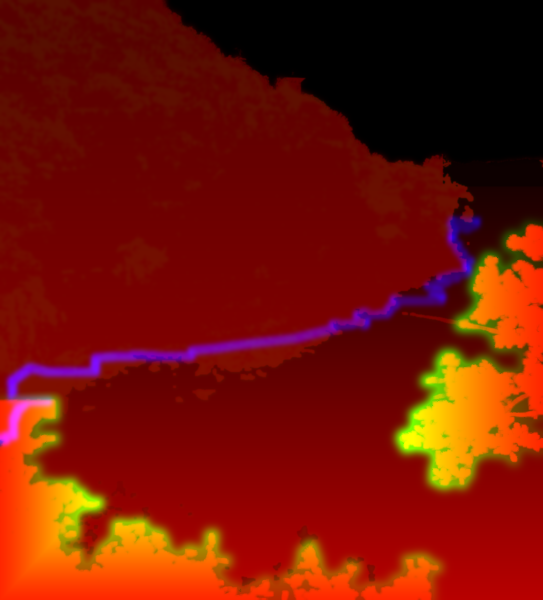
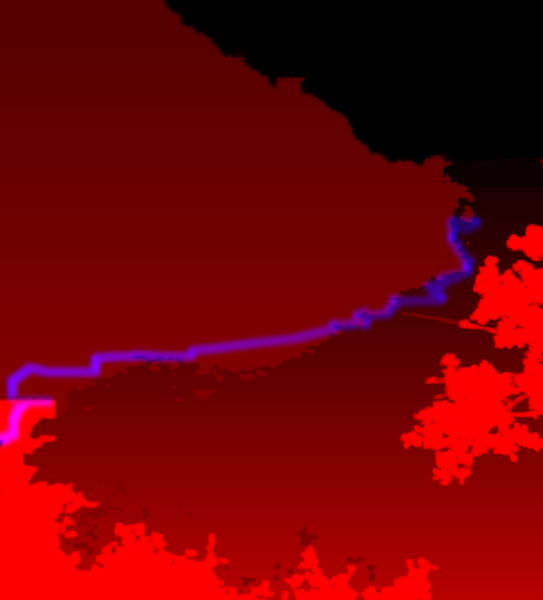
Commenti sull'anteprima: foto a tutto schermo, montagne e tramonto, cielo, barca di notte
- Niente più bande ai lati: la foto riempie sempre lo schermo, tagliata
  attorno al suo punto focale (foto orizzontale: 0,55 / 0,62, così restano
  le ville e il basso fondale). Tolti riempimento laterale e sfumature.
- Foto orizzontale, cielo: il pezzo di cielo tra gli alberi in cima alla
  collina ora cambia con l'ora come il resto; le montagne lontane nella
  foschia non sono più cielo (crinale tracciato a mano).
- Le montagne al tramonto e di notte prendono il colore del cielo, un po'
  più scure (canale G di maps.png della foto orizzontale; quella verticale
  non ne ha).
- Il sole tramonta a destra del pino, dietro le montagne: il disco sparisce
  dietro il crinale e la sua scia sull'acqua si spegne quando il disco è
  coperto (sunInSky legge la mappa del cielo); scia del sole e della luna
  meno accecanti sulla foto orizzontale.
- La barca di notte ha la luce di fonda bianca e una luce calda a bordo; dopo
  le 23 rientra e torna al mattino (7:45). Il nuotatore della foto verticale
  nuota solo di giorno.

Claude-Session: https://claude.ai/code/session_016rfVP7zDddbD6eFjRHCoFi

Changed region(s): [[0.0, 0.63, 0.825, 1.0], [0.7072, 0.36, 1.0, 0.84]]

diff --git a/scene.html b/scene.html
@@ -62,6 +62,7 @@ const SCENES = {
     swell: [-0.9536, 0.3011],
     // what floats (boxes in photo px, from tools/sea.py): swimmer, boat, buoy; and the boom's two ends
     objects: [[220, 967, 268, 996], [1016, 437, 1044, 451], [933, 484, 940, 490]],
+    kinds: ['swimmer', 'boat', 'buoy'],
     boom: [798, 623, 1066, 683],
     foam: 1,
     // the far coast's lights: along this row, between these columns
@@ -88,13 +89,15 @@ const SCENES = {
   wide: {
     w: 1920, h: 1331,
     horizonY: 503/1331,                 // where the haze turns into sea, on the right
-    focal: { landscape: [0.55, 0.5], portrait: [0.55, 0.5] },
-    sunSet: [0.995, 0.36], sunRise: [0.30, 0.0], sunArc: 0.12,   // it sets over the open sea, right of the pine
+    focal: { landscape: [0.55, 0.62], portrait: [0.55, 0.5] },   // wide screens keep the villas and the shallows
+    sunSet: [0.97, 0.36], sunRise: [0.30, 0.0], sunArc: 0.06,    // right of the pine, down behind the far mountains
     moon: [0.84, 0.13],
     // tools/wide.py: a level horizon at row 503, a ~60 degree lens, 20 m above the water
     camera: { f: 1663, cx: 960, cy: 665.5, pitch: 0.097406, height: 20 },
     swell: [-0.7071, -0.7071],
-    objects: [[1739, 932, 1838, 1012], NONE, NONE],
+    objects: [[1742, 936, 1842, 1014], NONE, NONE],
+    kinds: ['boat', 'none', 'none'],
+    glare: 0.45,                        // seen lower and closer to the water: the sun's path would blind
     boom: NONE,
     foam: 0.12,
     coast: { y: 499, x0: 1665, x1: 1915, up: 60 },
@@ -115,9 +118,20 @@ const SCENES = {
     ]
   }
 };
+// the boat goes back to harbour late in the evening and is out again in the morning; the swimmer
+// only swims by day
+function boatOn(hour){
+  const late = hour < 12 ? hour + 24 : hour;
+  return 1 - smooth(23.0, 23.3, late)*(1 - smooth(31.5, 31.8, late));
+}
 const PICK = QS.get('photo') === 'wide' || QS.get('photo') === 'tall' ? QS.get('photo') : (innerWidth > innerHeight ? 'wide' : 'tall');
 const SCENE = SCENES[PICK];
 const LIGHT_PX = SCENE.lights.slice();
+SCENE.kinds.forEach((k, i) => {
+  if (k !== 'boat') return;
+  const [x0, y0, x1, y1] = SCENE.objects[i], s = (x1 - x0)/100;
+  LIGHT_PX.push([x0 + 0.5*(x1 - x0), y0 + 4*s, 2.4*s, 3, 'boat'], [x0 + 0.42*(x1 - x0), y0 + 0.45*(y1 - y0), 2.8*s, 1, 'boat']);
+});
 // a photo pixel -> the direction the camera looks along it (x right, y away, z up)
 function camRay(px, py){
   const c = SCENE.camera, u = (px - c.cx)/c.f, v = (py - c.cy)/c.f, cp = Math.cos(c.pitch), sp = Math.sin(c.pitch);
@@ -166,6 +180,7 @@ uniform vec3 uSunDir, uSunSpec, uMoonDir, uMoonSpec;
 uniform float uWind;                // m/s
 uniform float uFoam;                // how much the swell breaks on this photo's rocks (a close shore: less)
 uniform vec4 uObjBox[3];            // swimmer, boat, buoy: photo px boxes
+uniform float uObjOn[3];            // each one there (1) or gone (0), by the hour
 uniform vec4 uBoom;                 // the floating boom, from end to end (photo px)
 uniform vec3 uWB, uZenith, uHorizon, uGlow, uSunCol, uLift;
 uniform vec2 uSunPos, uMoonPos, uMoonPhase;
@@ -316,24 +331,6 @@ vec3 water(vec2 q, vec2 ip, vec3 sea, float expo, float aspect){
   return max(col, 0.0);
 }
 
-// What goes where the screen is wider than the photo: the photo's own colours, mirrored out
-// from its edge, blurred more the further out, and darkened. Nothing there moves.
-vec3 sideFill(vec2 q){
-  float dx = q.x < 0.0 ? -q.x : max(q.x - 1.0, 0.0);              // photo widths outside the photo
-  float mx = 1.0 - abs(1.0 - mod(q.x, 2.0)), my = clamp(q.y, 0.0, 1.0);
-  // the photo's own colours, mirrored out from its edge and heavily blurred: a ring of samples
-  // on its coarsest levels, turned per pixel so no grid shows; only the light and the colours
-  // remain, no shapes
-  float r = 0.06 + 0.08*min(dx, 1.0), a0 = 6.2832*fract(52.9829189*fract(dot(gl_FragCoord.xy, vec2(0.06711056, 0.00583715))));
-  vec3 c = textureLod(uPlate, vec2(mx, my), 7.0).rgb;
-  for (int i = 0; i < 6; i++){
-    float a = a0 + float(i)*1.0472;
-    vec2 t = vec2(mx + cos(a)*r, my + sin(a)*r*1.1);
-    t.x = 1.0 - abs(1.0 - mod(t.x, 2.0));
-    c += textureLod(uPlate, vec2(t.x, clamp(t.y, 0.0, 1.0)), 7.0).rgb;
-  }
-  return grade(c/7.0)*(0.97 - 0.5*smoothstep(0.0, 0.35, dx))*(1.0 - 0.6*uNight);
-}
 void finish(vec3 col, vec2 s){
   // gentle highlight shoulder: the photo stays itself at noon
   col = max(col, 0.0);
@@ -349,7 +346,6 @@ void main(){
   // the camera does not move: a screen pixel is a photo pixel, nothing else
   vec2 s = vec2(gl_FragCoord.x, uRes.y - gl_FragCoord.y)/uRes;
   vec2 q = uOff + s*uVis;
-  if (q.x < 0.0 || q.x > 1.0){ finish(sideFill(q), s); return; }
   float aspect = uImg.x/uImg.y;
   vec4 m = texture(uMaps, q);
   vec2 ip = q*uImg;
@@ -372,14 +368,17 @@ void main(){
     land *= 1.0 - 0.32*wet;
   }
   vec3 col = grade(land);
+  // the far mountains in the haze: at dusk and at night they take the sky's colour, a shade darker
+  if (m.g > 0.004) col = mix(col, drawnSky(q, aspect)*0.72, min(1.0, m.g*uSkyMix*0.95));
 
   // ---- the sea, then what floats on it (rising and falling with the swell); the leaves come after, drawn on top
   if (sea.r > 0.004){
     col = mix(col, water(q, ip, sea, m.b, aspect), sea.r);
-    vec2 qo = q;
+    vec2 qo = q; float on = 1.0;
     for (int i = 0; i < 3; i++){
       vec4 bx = uObjBox[i];
       if (ip.x > bx.x - 4.0 && ip.x < bx.z + 4.0 && ip.y > bx.y - 16.0 && ip.y < bx.w + 16.0){
+        on = uObjOn[i];
         vec3 Pa = seaPoint(vec2(0.5*(bx.x + bx.z), bx.w));
         qo.y += swellH(Pa.xy, uSeaT)*0.9*uCam.x/Pa.z/uImg.y;
       }
@@ -392,7 +391,7 @@ void main(){
       qo.y += swellH(Pb.xy, uSeaT)*0.9*uCam.x/Pb.z/uImg.y;
     }
     vec4 ob = texture(uObjects, qo);
-    col = mix(col, grade(ob.rgb), ob.a);
+    col = mix(col, grade(ob.rgb), ob.a*on);
   }
 
   // ---- sky, only where there is sky: the photo's own by day, a drawn one with sun, moon and stars
@@ -442,10 +441,6 @@ void main(){
   // ---- lights at night: windows, lamps, the far coast, from the light map drawn in JS
   if (uLightsK > 0.001) col += texture(uLights, q).rgb*${LIGHT_SCALE.toFixed(2)}*uLightsK;
 
-  // into the side fill over the photo's last 70 px, on the sides that have one
-  float fe = 70.0/uImg.x;
-  float ef = (uOff.x < -1e-4 ? smoothstep(0.0, fe, q.x) : 1.0)*(uOff.x + uVis.x > 1.0001 ? smoothstep(0.0, fe, 1.0 - q.x) : 1.0);
-  if (ef < 1.0) col = mix(sideFill(q), max(col, 0.0), ef);
   finish(col, s);
 }`;
 
@@ -642,8 +637,6 @@ void main(){
     c = mix(c, vec3(dot(c, LUM))*1.35 + c*0.15, 0.4*smoothstep(-0.3, -1.0, vFlip));
   }
   float a = smoothstep(vSoft, -vSoft, d);
-  // like the photo, into the side fill at its edges
-  a *= (uOff.x < -1e-4 ? smoothstep(0.0, 70.0, vP.x) : 1.0)*(uOff.x + uVis.x > 1.0001 ? smoothstep(0.0, 70.0, uImg.x - vP.x) : 1.0);
   if (a < 0.003) discard;
   vec3 col = grade(c);
   col = mix(col, 1.0 - 0.2*exp(-(col - 0.8)/0.2), step(0.8, col));
@@ -842,16 +835,16 @@ mo.addEventListener('input', () => {
 mo.value = Math.round(state.motion*100);
 
 /* ---------- night lights: drawn once per change into a texture, not computed per pixel ---------- */
-const LIGHT_COL = [[1.0, 0.72, 0.42], [1.0, 0.56, 0.22], [1.0, 0.78, 0.55]];
+const LIGHT_COL = [[1.0, 0.72, 0.42], [1.0, 0.56, 0.22], [1.0, 0.78, 0.55], [1.0, 0.94, 0.84]];   // ... the boat's anchor light
 const lights = LIGHT_PX.map((l, i) => {
   let s = 977 + i*7919; const r = () => { s = (s*16807) % 2147483647; return s/2147483647; };
   r();
   const kind = l[3];
-  return { x: l[0], y: l[1], rad: l[2], kind,
-           onEl: kind === 1 ? -1.0 - r()*1.5 : -0.8 - r()*6.5,
+  return { x: l[0], y: l[1], rad: l[2], kind, boat: l[4] === 'boat',
+           onEl: kind >= 1 ? -1.0 - r()*1.5 : -0.8 - r()*6.5,
            off: kind === 0 && r() > 0.45 ? 22.8 + r()*3.8 : 99,
            col: LIGHT_COL[kind].map(c => c*(0.9 + 0.2*r())),
-           gain: kind === 2 ? 0.9 : kind === 1 ? 1.3 : 1.0, on: 0 };
+           gain: kind === 2 ? 0.9 : kind === 1 ? 1.3 : kind === 3 ? 1.6 : 1.0, on: 0 };
 });
 // each light's glow, once: a soft window (taller than wide, light spilling on the wall) or a lamp
 for (const l of lights){
@@ -886,7 +879,7 @@ function updateLights(el, hour, now, eager){
   const late = hour < 12 ? hour + 24 : hour;
   let change = lightsShown ? 0 : 1;
   for (const l of lights){
-    l.on = smooth(l.onEl + 0.6, l.onEl - 0.6, el)*(1 - smooth(l.off, l.off + 0.25, late));
+    l.on = smooth(l.onEl + 0.6, l.onEl - 0.6, el)*(1 - smooth(l.off, l.off + 0.25, late))*(l.boat ? boatOn(hour) : 1);
     if (lightsShown) change = Math.max(change, Math.abs(l.on - lightsShown.get(l)));
   }
   if (change < 0.015 || now - lightsAt < (eager ? 120 : 500)) return;
@@ -925,6 +918,26 @@ function updateLights(el, hour, now, eager){
   lightsShown = new Map(lights.map(l => [l, l.on])); lightsAt = now;
 }
 
+/* ---------- how much of the sun's disc is in open sky (behind a mountain or a tree: none) ---------- */
+let skyData = null;
+function readSky(img){
+  try {
+    const c = document.createElement('canvas'); c.width = img.width; c.height = img.height;
+    const x = c.getContext('2d', { willReadFrequently: true }); x.drawImage(img, 0, 0);
+    skyData = { w: img.width, h: img.height, d: x.getImageData(0, 0, img.width, img.height).data };
+  } catch (e){ skyData = null; }
+}
+function sunInSky(p){
+  if (!skyData || p[0] > 1.5) return 1;
+  const r = 0.0105*SCENE.h, cx = p[0]*SCENE.w, cy = p[1]*SCENE.h;
+  let a = 0, n = 0;
+  for (const [dx, dy] of [[0, 0], [-r, 0], [r, 0], [0, -r], [0, r], [-0.7*r, 0.7*r], [0.7*r, 0.7*r]]){
+    const x = Math.round((cx + dx)*skyData.w/SCENE.w), y = Math.round((cy + dy)*skyData.h/SCENE.h);
+    a += x >= 0 && y >= 0 && x < skyData.w && y < skyData.h ? skyData.d[(y*skyData.w + x)*4]/255 : 0; n++;
+  }
+  return a/n;
+}
+
 /* ---------- size: the canvas holds the photo's own pixels, never more than the screen's ---------- */
 const DPR = window.devicePixelRatio || 1;
 let quality = 1;                       // lowered only if frames come too slowly
@@ -938,11 +951,9 @@ function layout(){
   if (view && view.key === key) return view;
   viewW = w; viewH = h;
   const A = w/h, a = SCENE.w/SCENE.h;
-  // the photo always at its full height: a narrower screen crops its sides, a wider one has room left
-  // at the sides, filled in the shader
-  const vis = [A/a, 1];
-  const f = (A >= 1 ? SCENE.focal.landscape : SCENE.focal.portrait).slice();
-  if (A > a) f[0] = 0.5;                // wider than the photo: all of it, centred, the sides filled in the shader
+  // the photo always fills the screen: cropped around its focal point, never bands at the sides
+  const vis = A > a ? [1, a/A] : [A/a, 1];
+  const f = A >= 1 ? SCENE.focal.landscape : SCENE.focal.portrait;
   const density = vis[1]*SCENE.h/h;     // photo pixels per CSS pixel
   let W, H, uv, off;
   if (density <= DPR && quality === 1){
@@ -1015,6 +1026,7 @@ function frame(now){
   gl.uniform1f(U.uWind, wind);
   gl.uniform1f(U.uFoam, SCENE.foam);
   gl.uniform4fv(U.uObjBox, SCENE.objects.flat());
+  gl.uniform1fv(U.uObjOn, SCENE.kinds.map(k => k === 'boat' ? boatOn(hour) : k === 'swimmer' ? smooth(-1, 4, el) : 1));
   gl.uniform4fv(U.uBoom, SCENE.boom);
   // the sun goes round: up behind the hill on the left, behind the camera at noon, down over the
   // far coast on the right (where the drawn sun sets)
@@ -1026,10 +1038,10 @@ function frame(now){
   }
   const er = Math.max(el, -2)*Math.PI/180;
   gl.uniform3f(U.uSunDir, Math.sin(phi)*Math.cos(er), Math.cos(phi)*Math.cos(er), Math.sin(er));
-  const sunK = 3.2*smooth(-1.5, 3, el)*(1 - 0.7*state.weather.cloud);
+  const sunK = 3.2*(SCENE.glare || 1)*smooth(-1.5, 3, el)*(1 - 0.7*state.weather.cloud)*sunInSky(sunPos);
   gl.uniform3fv(U.uSunSpec, sunCol.map(c => c*sunK));
   gl.uniform3fv(U.uMoonDir, camRay(SCENE.moon[0]*SCENE.w, SCENE.moon[1]*SCENE.h));
-  gl.uniform3fv(U.uMoonSpec, [0.75, 0.82, 1].map(c => c*0.22*moonVis));
+  gl.uniform3fv(U.uMoonSpec, [0.75, 0.82, 1].map(c => c*0.22*(SCENE.glare || 1)*moonVis));
   gl.uniform1f(U.uSpark, 0.22*smooth(4, 20, el)*(1 - 0.6*state.weather.cloud));
   gl.uniform1f(U.uStarTw, 0.08*Math.min(1, M));
   gl.uniform1f(U.uHorizonY, SCENE.horizonY);
@@ -1158,6 +1170,7 @@ try {
   texture(4, plate, {srgb: true, mips: true}); gl.uniform1i(U.uPlate, 4);
   texture(1, maps); gl.uniform1i(U.uMaps, 1);
   texture(2, sky, {red: true}); gl.uniform1i(U.uSky, 2);
+  readSky(sky);
   texture(3, fill, {srgb: true}); gl.uniform1i(U.uFill, 3);
   texture(10, seabed, {srgb: true}); gl.uniform1i(U.uSeabed, 10);
   texture(11, sea); gl.uniform1i(U.uSea, 11);

diff --git a/index.html b/index.html
@@ -28,17 +28,14 @@
 
   /* until the scene's first frame: a light copy of the photo, toned for the hour and framed exactly
      as the scene frames it, over a tiny blurred placeholder that is there from the very first paint */
-  /* Two photos: the tall one upright (phones), the wide one on screens wider than tall, framed
-     as the scene frames them: cropped at the sides around the focal point, or whole and centred
-     once the screen is wider than the photo */
+  /* Two photos: the tall one upright (phones), the wide one on screens wider than tall, framed as
+     the scene frames them: filling the screen, cropped around the same focal point */
   #poster { position:fixed; inset:0; z-index:0; overflow:hidden;
             filter:brightness(var(--dim,1)) saturate(var(--sat,1)); }
   #poster::before, #poster::after { content:''; position:absolute; background-repeat:no-repeat; background-size:cover; background-position:43% 50%; }
   #poster::before { inset:-40px; background-image:var(--lqip); filter:blur(24px); }
   #poster::after { inset:0; background-image:url(img/poster.webp); }
-  @media (orientation: portrait) and (min-aspect-ratio: 1086/1200){ #poster::after { background-size:contain; background-position:center; } }
-  @media (orientation: landscape){ #poster::after { background-image:url(img/wide/poster.webp); background-position:55% 50%; } }
-  @media (orientation: landscape) and (min-aspect-ratio: 1920/1331){ #poster::after { background-size:contain; background-position:center; } }
+  @media (orientation: landscape){ #poster::after { background-image:url(img/wide/poster.webp); background-position:55% 62%; } }
   #scene-frame { position:fixed; inset:0; z-index:0; width:100%; height:100%; border:0; display:block;
                  pointer-events:none; opacity:0; transition:opacity 1.2s ease; background:transparent; }
   /* a veil at the bottom keeps the time readable over the bright sea; one at the top for the menu */

diff --git a/tools/wide.py b/tools/wide.py
@@ -42,6 +42,10 @@ WATER = [(1920, 500), (1655, 500), (1648, 640), (1665, 700), (1690, 760), (1714,
          (790, 1186), (600, 1188), (500, 1186), (448, 1196), (446, 1252), (262, 1252), (248, 1232),
          (212, 1250), (200, 1331), (1920, 1331)]
 BUSH = [(0, 1190), (340, 1190), (340, 1331), (0, 1331)]
+# the far mountains in the haze on the right, behind the pine: their ridge (below it, down to the
+# sea, is land; the sun goes down behind it)
+RIDGE = [(1370, 450), (1420, 440), (1450, 420), (1480, 410), (1520, 404), (1560, 402), (1600, 404), (1640, 410),
+         (1680, 414), (1720, 420), (1760, 422), (1790, 412), (1820, 406), (1860, 401), (1920, 398)]
 BOAT = (1790, 978, 64, 52)                 # centre x, y, half width, half height (with its shadow)
 
 
@@ -73,7 +77,10 @@ def main():
     # ---- sky: pale and blue, connected to the top right corner, above the horizon
     skyish = (S < 95) & (V > 205) & (H > 84) & (H < 112) & (yy < HORIZON)
     skyish = cv2.morphologyEx(skyish.astype(np.uint8), cv2.MORPH_OPEN, np.ones((3, 3), np.uint8)).astype(bool)
-    sky = maps.largest_touching(skyish, [(w - 5, 5), (w - 5, 300), (1300, 20)])
+    # the big sky, and the patch of it between the trees at the top of the hill
+    sky = maps.largest_touching(skyish, [(w - 5, 5), (w - 5, 300), (1300, 20), (900, 5), (960, 30)])
+    mountains = poly(h, w, RIDGE + [(1920, HORIZON + 2), (1370, HORIZON + 2)])
+    sky &= ~mountains
     sky_a = maps.guided(grey, sky.astype(np.float32), 6, 2e-3)
     sky_a[yy >= HORIZON] = 0
     sky_a = np.where(sky_a < 0.04, 0, sky_a).astype(np.float32)
@@ -181,7 +188,13 @@ def main():
     bgr = np.dstack([np.clip(128 + 2 * sd, 0, 255), np.clip(depth, 0, 1) * 255, np.clip(cover, 0, 1) * 255])
     cv2.imwrite(os.path.join(OUT, 'sea.png'), np.round(bgr).astype(np.uint8), [cv2.IMWRITE_PNG_COMPRESSION, 9])
     half = cv2.resize(exp_, (w // 2, h // 2), interpolation=cv2.INTER_AREA)
-    mp = np.dstack([np.clip(half * 255 + 0.5, 0, 255), np.zeros_like(half), np.zeros_like(half)]).astype(np.uint8)
+    # G: the far mountains in the haze; at dusk and at night they take the colour of the sky behind them
+    hazy = (H >= 84) & (H <= 114) & (V > 150) & (S < 150)          # the bluish haze, not the pine in front of it
+    hazy = cv2.morphologyEx(hazy.astype(np.uint8), cv2.MORPH_OPEN, np.ones((3, 3), np.uint8)).astype(bool)
+    haze = (mountains & hazy & ~W) | (cv2.dilate(mountains.astype(np.uint8), np.ones((7, 7), np.uint8)).astype(bool) & (sky_a > 0.02) & (sky_a < 0.98))
+    haze = cv2.GaussianBlur(haze.astype(np.float32), (0, 0), 1.0)
+    hz = cv2.resize(haze, (w // 2, h // 2), interpolation=cv2.INTER_AREA)
+    mp = np.dstack([np.clip(half * 255 + 0.5, 0, 255), np.clip(hz * 255 + 0.5, 0, 255), np.zeros_like(half)]).astype(np.uint8)
     cv2.imwrite(os.path.join(OUT, 'maps.png'), mp, [cv2.IMWRITE_PNG_COMPRESSION, 9])
 
     # ---- the bush, leaf by leaf; the poster

diff --git a/tools/sea.py b/tools/sea.py
@@ -215,6 +215,7 @@ def main():
     # the exposure is smooth: it takes the drift's place in maps.png (half resolution, B)
     mp = cv2.imread(os.path.join(OUT, 'maps.png'))
     mp[..., 0] = np.clip(cv2.resize(exp_.astype(np.float32), (mp.shape[1], mp.shape[0]), interpolation=cv2.INTER_AREA) * 255 + 0.5, 0, 255).astype(np.uint8)
+    mp[..., 1] = 0          # G: far mountains to tint at dusk (none marked on this photo)
     cv2.imwrite(os.path.join(OUT, 'maps.png'), mp, [cv2.IMWRITE_PNG_COMPRESSION, 9])
 
     cam = dict(f=F, cx=CX, cy=CY, horizon=HORIZON, pitch=float(PITCH), height=HEIGHT, swell=[float(k[0]), float(k[1])],
